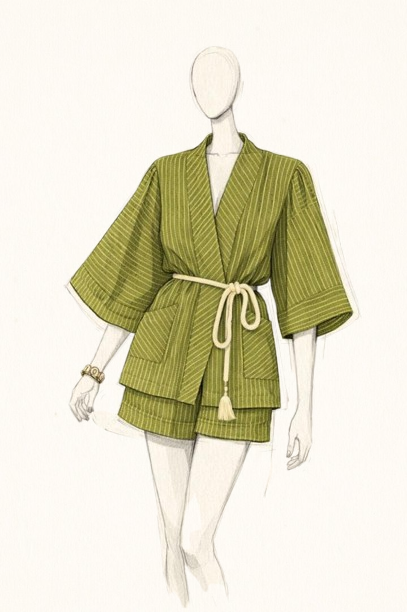
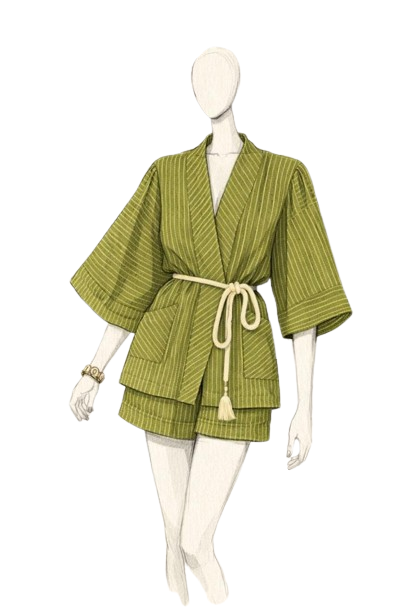
feat: some changes

diff --git a/src/components/ClientShowcase.tsx b/src/components/ClientShowcase.tsx
@@ -16,27 +16,27 @@ import {
 const CLIENTS = [
   {
     id: 1,
-    clientName: "Toke Makinwa",
-    video: "/videos/client-1.mp4",
+    clientName: "@ibk.horbs",
+    video: "/videos/client-3.mp4",
     likes: "12,490",
     comments: "156",
-    caption: "The power of bespoke. 🖤 Toke Makinwa effortless in our signature velvet drop. Every stitch is a testament to luxury. <br><br> #Dahriola #LuxuryBespoke #LagosFashion",
+    caption: "@ibk.horbs didn't just style the Ankara Capri Pants - he owned them in multiple fresh and creative ways.🔥 <br><br> Which is your favourite? <br><br> #Dahriola #LuxuryBespoke #ankaracargopants",
   },
   {
     id: 2,
-    clientName: "Zainab Balogun",
-    video: "/videos/client-3.mp4",
+    clientName: "@naomi_anyaegbu",
+    video: "/videos/client-2.mp4",
     likes: "8,204",
     comments: "92",
-    caption: "Endless possibilities with the Ankara Capri. @zainabbalogun showing us exactly why modular fashion is the future. <br><br> Which of these looks is your favorite? Let us know! 👇",
+    caption: "@naomi_anyaegbu slayed our Wura skirt to perfection😍😍 <br><br> Beauty at it&apos;s peak! <br> Grace personified💚 <br><br> #dahriolawoman",
   },
   {
     id: 3,
-    clientName: "Adesua Etomi-Wellington",
-    video: "/videos/client-2.mp4",
+    clientName: "",
+    video: "/videos/client-1.mp4",
     likes: "15,102",
     comments: "214",
-    caption: "Grace personified. A custom Dahriola moment for a special night. ✨ <br><br> #DahriolaWoman #BespokeFashion #AdesuaEtomi",
+    caption: "Our Mide dress has been an highlight since we reposted the pretty @peacebaiyere on our story last week🥰✨ <br><br> #DahriolaWoman #BespokeFashion",
   }
 ];
 

diff --git a/src/components/CollectionTurntable.tsx b/src/components/CollectionTurntable.tsx
@@ -32,7 +32,7 @@ export default function CollectionTurntable() {
           Shop our <span className="italic font-light">latest</span> pieces
         </h2>
         <div 
-          className="absolute -bottom-1 left-1/2 -translate-x-1/2 w-80 h-6 bg-no-repeat bg-contain bg-center z-0 opacity-70"
+          className="absolute -bottom-1 left-1/2 -translate-x-1/2 w-52 h-6 bg-no-repeat bg-contain bg-center z-0 opacity-70"
           style={{ 
             backgroundImage: "url('/brush-stroke-green.svg')", 
           }}
@@ -94,7 +94,7 @@ export default function CollectionTurntable() {
           <p className="text-[10px] uppercase tracking-[0.6em] font-bold text-neutral-400 mb-2">
             New Collection
           </p>
-          <h3 className="font-display text-3xl md:text-4xl text-black lowercase tracking-tighter">
+          <h3 className="font-display text-3xl md:text-4xl text-black tracking-tighter">
             {currentItem.name}
           </h3>
         </motion.div>

diff --git a/src/app/product/[slug]/page.tsx b/src/app/product/[slug]/page.tsx
@@ -49,8 +49,8 @@ export default async function ProductPage({ params }: { params: Promise<{ slug: 
   return (
     <div className="bg-brand-white min-h-screen">
       {/* 1. Breadcrumb Navigation */}
-      <div className="max-w-7xl mx-auto px-4 sm:px-6 lg:px-8 pt-12">
-        <nav className="flex items-center gap-3 text-[9px] uppercase tracking-[0.3em] text-neutral-500 border-b border-neutral-100 pb-6">
+      <div className="max-w-7xl mx-auto px-4 sm:px-6 lg:px-8 pt-24">
+        <nav className="flex items-center gap-3 text-[9px] tracking-[0.3em] text-neutral-500 border-b border-neutral-100 pb-4">
           <Link href="/" className="hover:text-brand-beryl transition-all">Home</Link>
           <ChevronRight size={8} className="text-neutral-300" />
           <Link href="/category/all" className="hover:text-brand-beryl transition-all">Collection</Link>

diff --git a/src/components/FeaturedProducts.tsx b/src/components/FeaturedProducts.tsx
@@ -8,10 +8,6 @@ export default function FeaturedProducts({ products }: FeaturedProductsProps) {
   return (
     <section 
       className="relative py-12 px-4 bg-no-repeat bg-fixed bg-center transition-all duration-1000"
-      style={{ 
-        backgroundImage: "url('/images/patterned-g.jpg')", 
-        backgroundSize: "cover", // Changed from 400px to cover for a single large image
-      }}
     >
       {/* To increase image opacity, we reduce the opacity of this white overlay. 
           bg-white/20 makes the image very clear. 
